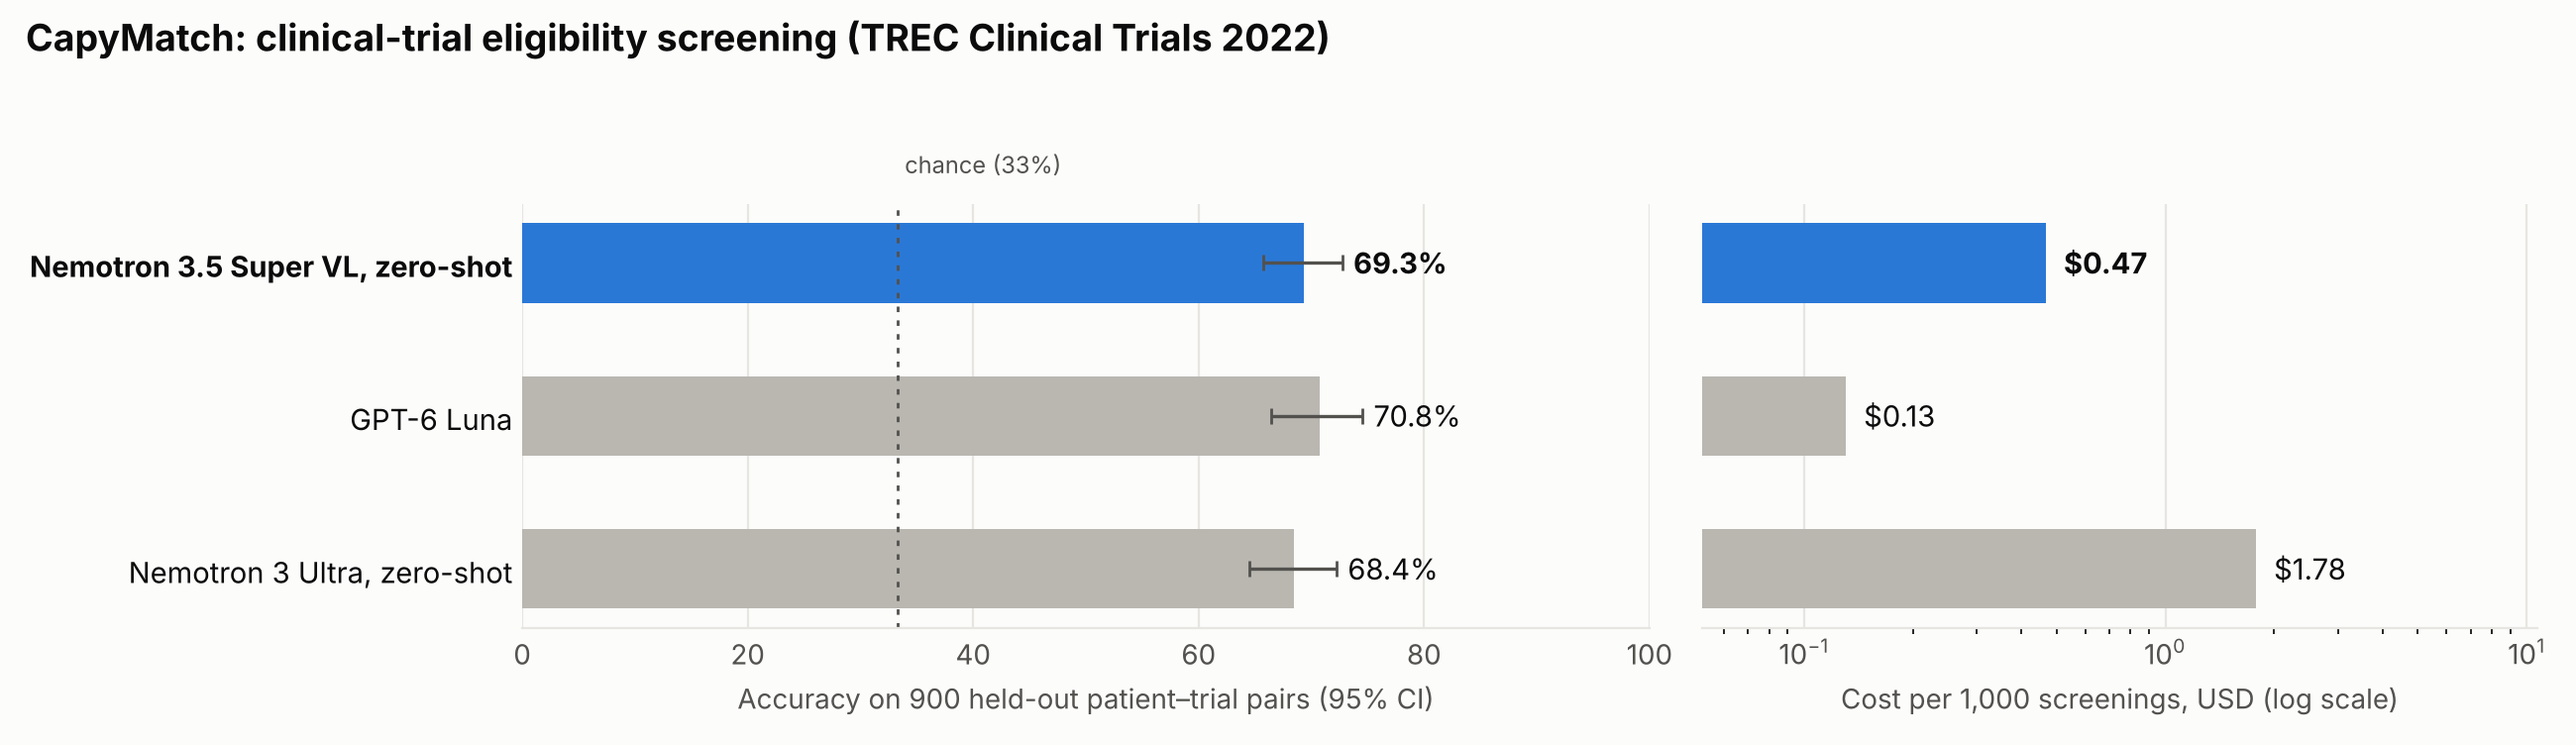
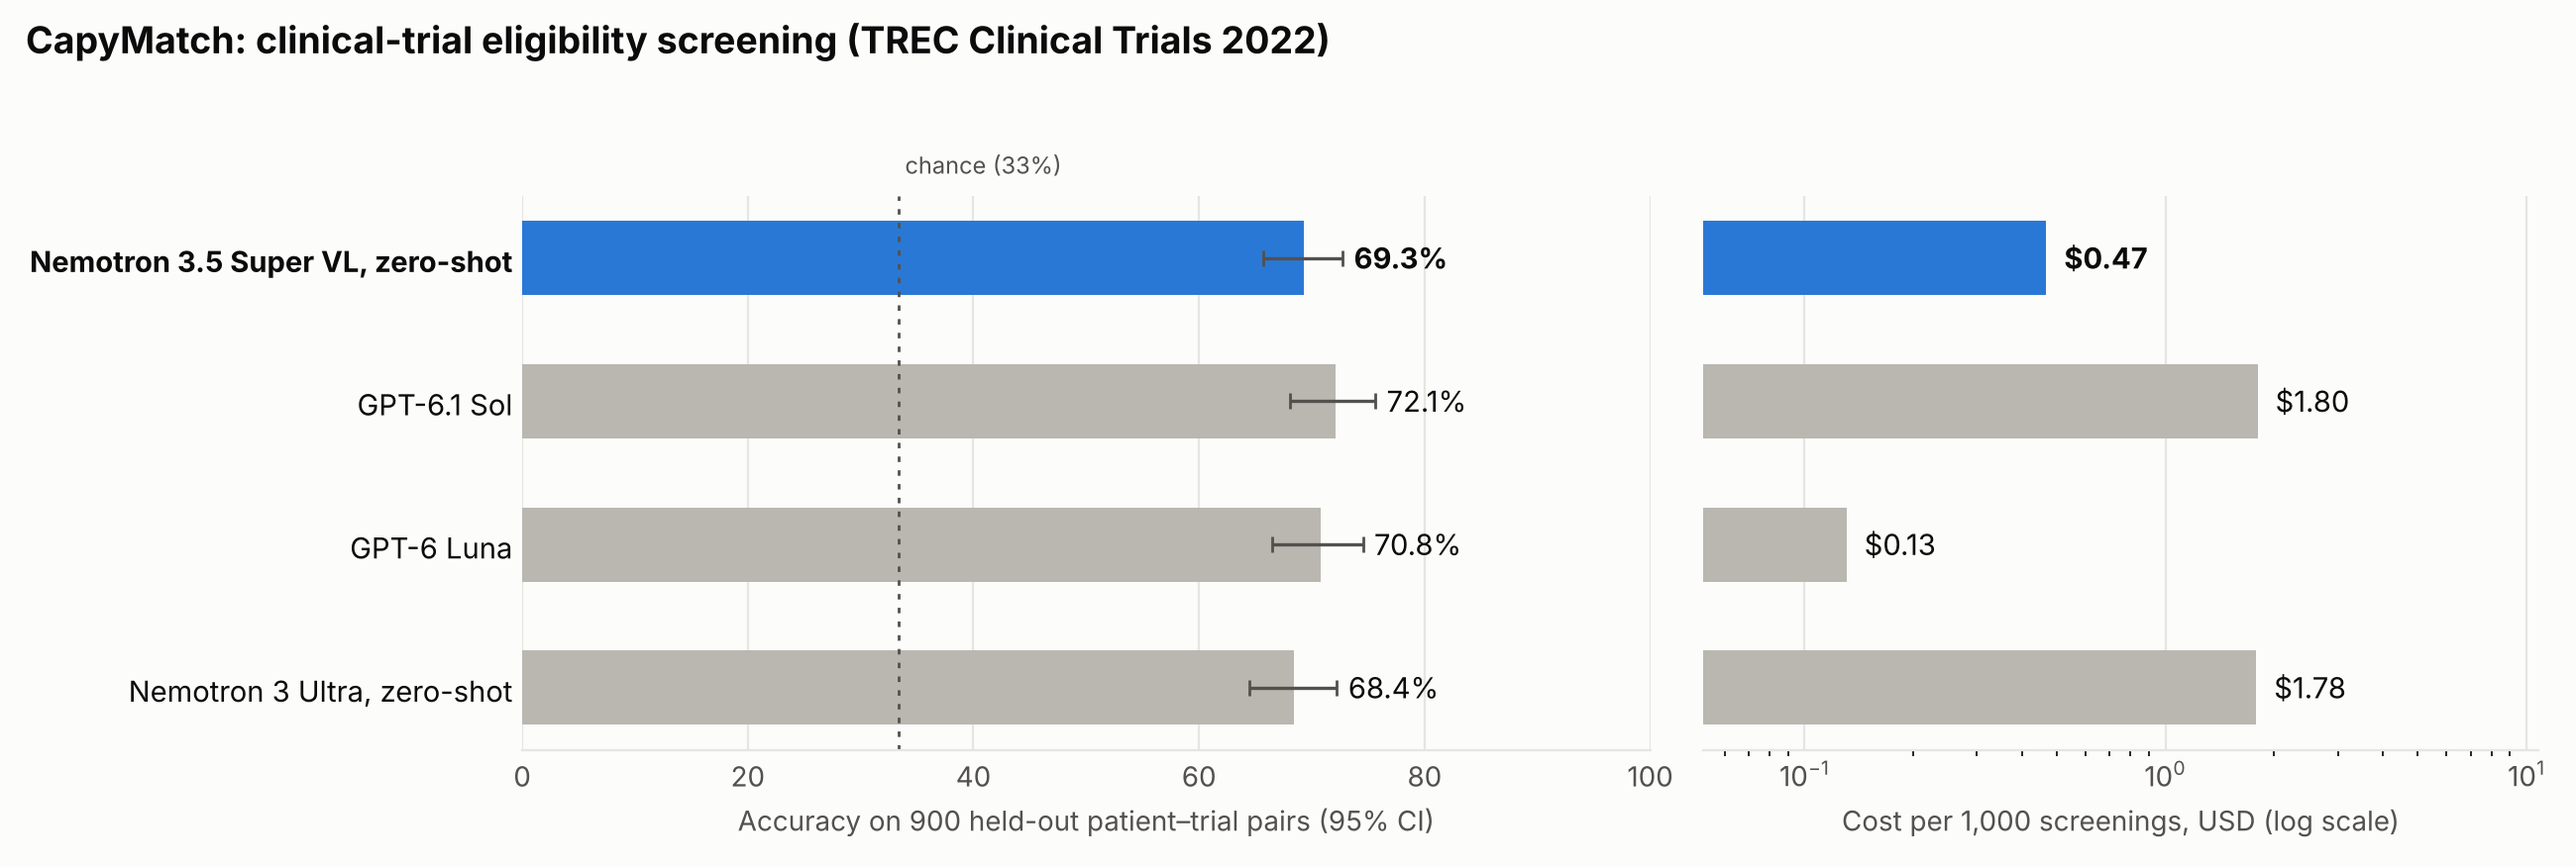
Add GPT-6.1 Sol baseline results and epoch-1 dev scores
Claude-Session: https://claude.ai/code/session_01TEjb3cCH4Ky4mNVMRHkuHb

diff --git a/capymatch/demo_examples.py b/capymatch/demo_examples.py
@@ -59,7 +59,9 @@ def main() -> None:
             "why": explain(r, r["label"]),
         })
         print(r["nct_id"], r["label"], {k: preds[k][r["id"]]["pred"] for k in preds})
-    out = {"patient": {"id": f"2022-{topic}", "text": rows[0]["patient"]}, "trials": trials,
+    out = {"placeholder": False,
+           "systems": [SYSTEMS[k][0] for k in SHOW if k in preds],
+           "patient": {"id": f"2022-{topic}", "text": rows[0]["patient"]}, "trials": trials,
            "note": "Illustrative patient from the held-out TREC 2022 test set; aggregate metrics are in results/."}
     Path("demo").mkdir(exist_ok=True)
     Path("demo/examples.json").write_text(json.dumps(out, indent=2))

diff --git a/results/results.md b/results/results.md
@@ -1,10 +1,12 @@
 | System | Type | Accuracy (95% CI) | Macro-F1 (95% CI) | Eligible P / R | $ per 1k screens | p50 latency |
 |---|---|---|---|---|---|---|
 | **Nemotron 3.5 Super VL, zero-shot** | open, Fireworks serverless sampling | **69.3%** (65.7–72.7) | 69.5 (65.8–72.9) | 83% / 58% | $0.47 | 0.9s |
+| GPT-6.1 Sol | closed frontier (OpenAI) | 72.1% (68.1–75.6) | 71.7 (67.7–75.2) | 79% / 72% | $1.80 | 1.4s |
 | GPT-6 Luna | closed, low-cost tier (OpenAI) | 70.8% (66.5–74.5) | 70.3 (65.8–74.1) | 82% / 69% | $0.13 | 1.6s |
 | Nemotron 3 Ultra, zero-shot | open, Fireworks serverless | 68.4% (64.5–72.2) | 67.7 (63.6–71.5) | 81% / 65% | $1.78 | 4.0s |
 
 | Ours vs | Accuracy Δ (95% CI) | Macro-F1 Δ (95% CI) | McNemar p | Cost ratio (baseline ÷ ours) |
 |---|---|---|---|---|
+| GPT-6.1 Sol | -2.8 pts (-5.3 to +0.0) | -2.2 (-4.9 to +0.6) | 0.061 | 3.8× |
 | GPT-6 Luna | -1.4 pts (-4.1 to +1.3) | -0.8 (-3.6 to +2.1) | 0.38 | 0.3× |
 | Nemotron 3 Ultra, zero-shot | +0.9 pts (-1.9 to +3.5) | +1.8 (-1.0 to +4.6) | 0.6 | 3.8× |
